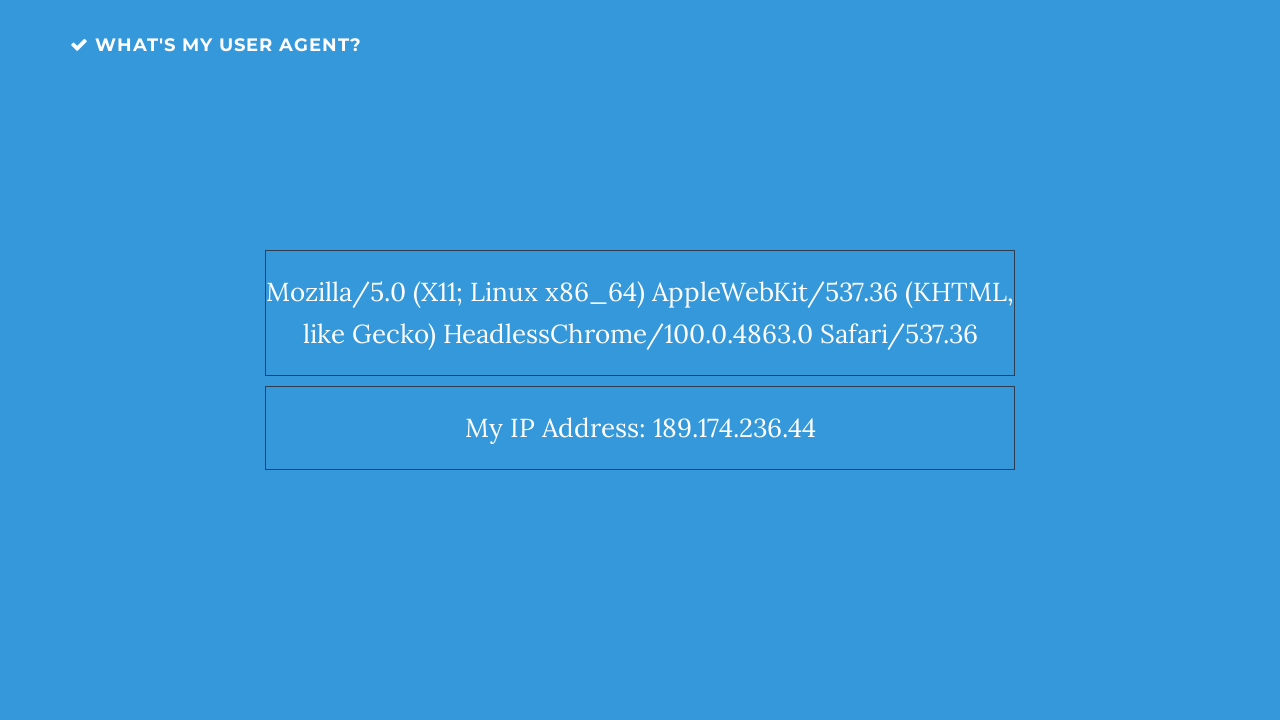
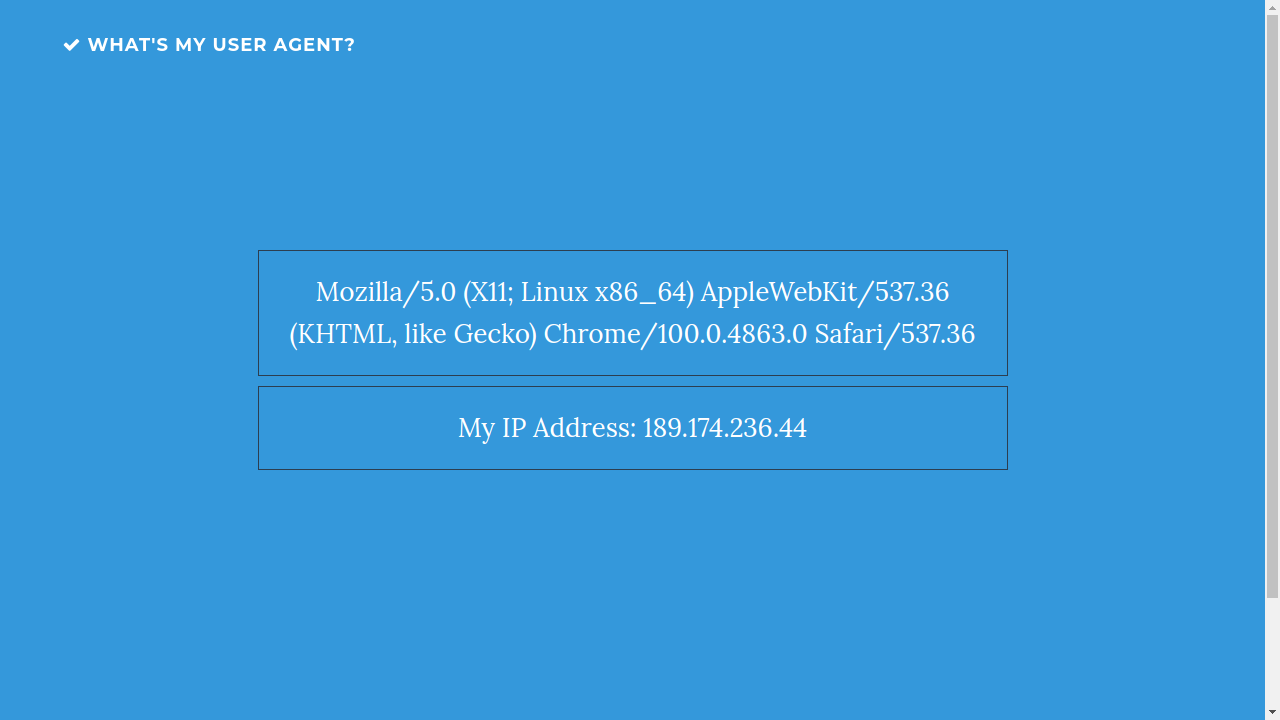
make visual test

diff --git a/src/index.ts b/src/index.ts
@@ -4,7 +4,9 @@ async function main(){
     const {chromium,webkit,firefox} = playwright
     //Launch browser
     for (const browserType of [chromium,webkit,firefox]) {
-        const browser = await playwright.chromium.launch();
+        const browser = await playwright.chromium.launch({
+            headless: false //executa in visual browser
+        });
         //Create a context
         const context = await browser.newContext()
         //Create a page
